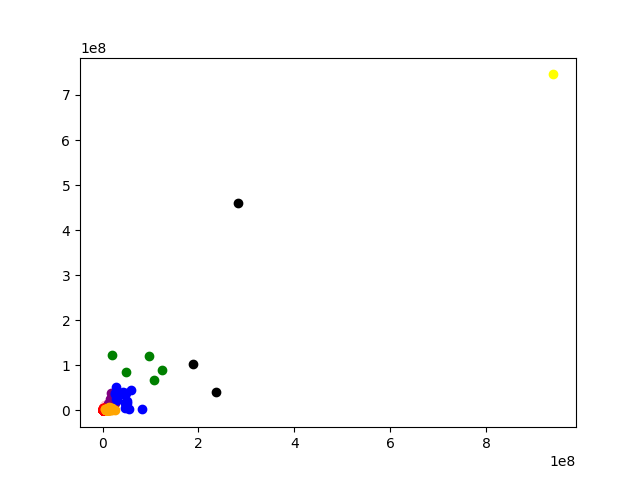
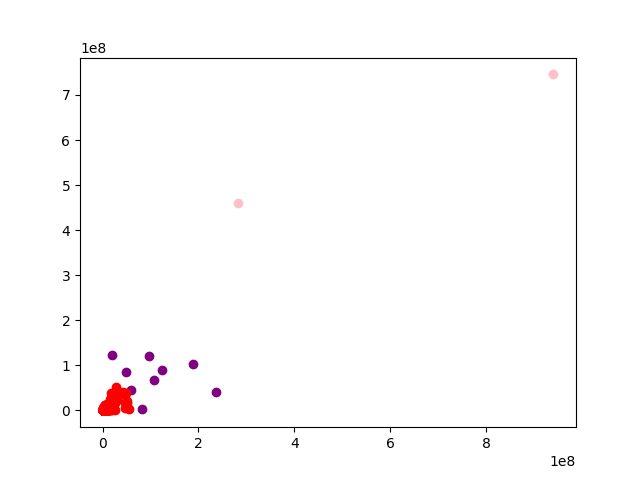
fixed dashboard so it is pulling in graphs that dataAnalysis generated

diff --git a/Data/Dashboard/dashboarDesign1.html b/Data/Dashboard/dashboarDesign1.html
@@ -22,11 +22,18 @@
     #rightColumn {
       width: 25%;
       float: right;
+      display: inline-block;
     }
 
     #focalPoint {
       display: inline-block;
       width: 75%;
+      float: left;
+    }
+
+    #footer {
+      width: 100%;
+      float: right;
     }
 
     .selection {
@@ -34,11 +41,11 @@
     }
 
     .side {
-      margin: 3%;
+      margin-bottom: 3%;
       border-color: grey;
       padding: 20px;
     }
-    
+
 
 	</style> 
 
@@ -49,7 +56,7 @@
       <div id="dropDownFilterNTEEPrimary" class="selection">
         <form>
           <select name="primary">
-            <option value="1"> 1 </option>
+            <option value="1"> Option 1 </option>
             <option value="2"> 2 </option>
             <option value="3"> 3 </option>
           </select>
@@ -83,15 +90,16 @@
         </form>
       </div>
     </div>
-    <script src="jquery.js"></script> 
-    <div  id = "focalPoint">
-      <iframe id="igraph" scrolling="no" style="border:none;" seamless="seamless" src="https://plotly.com/~chris/1638.embed" height="525" width="100%"></iframe>
+    <div>
+      <img src="../plot.png" alt="Graph" id ="focalPoint">
     </div>
     <div id="rightColumn">
       <div class = "side" id = "dvOne">One</div>
       <div class = "side" id = "dvTwoSankey">Sankey</div>
       <div class = "side" id = "dvThree">Top Five</div>
     </div>
-    <text> words words words awesome words </text>
+    <div id= "footer">
+      <text> words words words awesome words </text>
+    </div>
   </body>
 </html>

diff --git a/Data/dataAnalysis.py b/Data/dataAnalysis.py
@@ -58,7 +58,7 @@ medLiabilities = statistics.median(liabilities)
 
 
 #defining and running the kmeans
-clusters = 8
+clusters = 3
 graph = plt.figure()
 km = KMeans(n_clusters = clusters, n_init = 10, init = "random")
 label = km.fit_predict(test)

diff --git a/Server/server.py b/Server/server.py
@@ -1,0 +1,2 @@
+import os
+from flask import Flask
